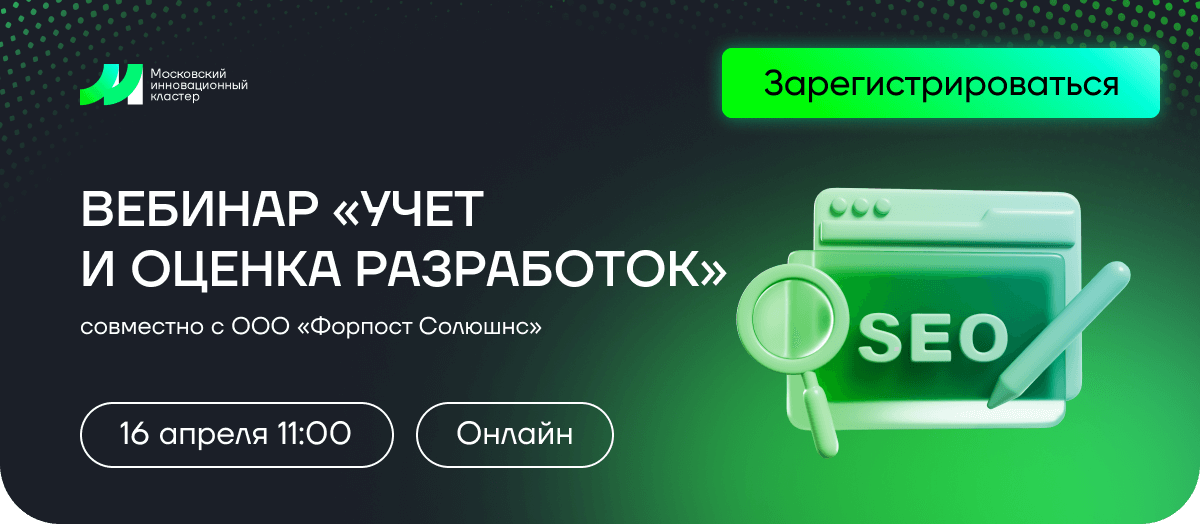
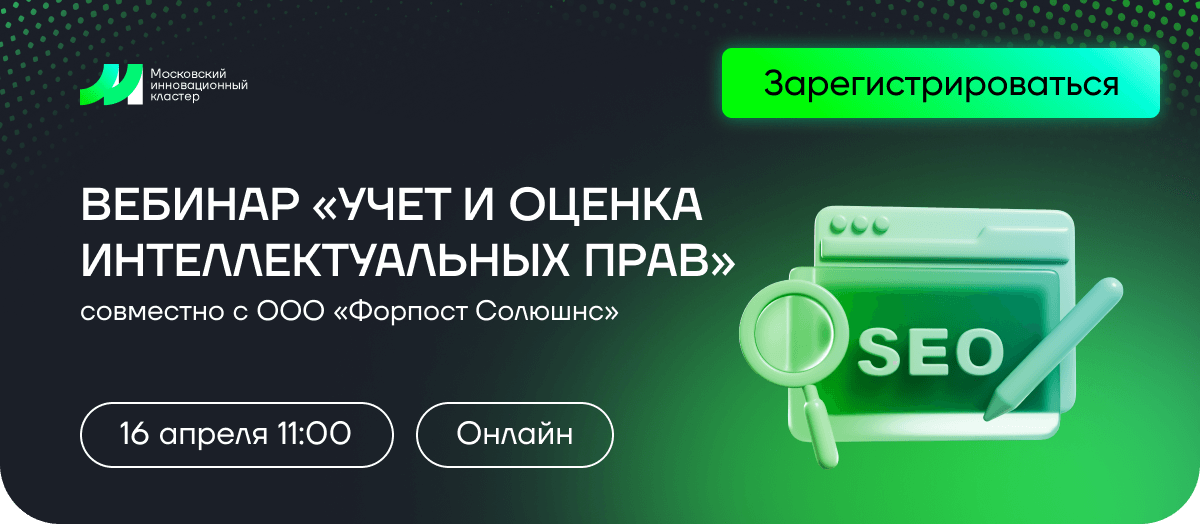
change mik-216

Changed region(s): [[0.0617, 0.3359, 0.9558, 0.916], [0.0617, 0.3359, 0.5858, 0.4275]]

diff --git a/mik-216/Вебинар «Учет и оценка разработок».html b/mik-216/Вебинар «Учет и оценка разработок».html
@@ -103,7 +103,7 @@
                                         <tr>
                                             <td style="width:600px;">
                                                 <a href="https://i.moscow/event/uchetipwebinar" target="_blank">
-                                                    <img alt="Вебинар «Учет и оценка разработок» совместно с ООО «Форпост Солюшнс». 16 апреля 11:00. Онлайн. Нажмите здесь, чтобы зарегистрироваться." height="auto" src="https://cp.unisender.com/ru/user_file?resource=images&user_id=5608985&name=mik-216-hero.png" style="border:0;display:block;outline:none;text-decoration:none;height:auto;width:100%;font-size:13px;" width="600" />
+                                                    <img alt="Вебинар «Учет и оценка интеллектуальных прав» совместно с ООО «Форпост Солюшнс». 16 апреля 11:00. Онлайн. Нажмите здесь, чтобы зарегистрироваться." height="auto" src="https://cp.unisender.com/ru/user_file?resource=images&user_id=5608985&name=mik-216-hero.png" style="border:0;display:block;outline:none;text-decoration:none;height:auto;width:100%;font-size:13px;" width="600" />
                                                 </a>
                                             </td>
                                         </tr>
@@ -583,25 +583,69 @@
             </tbody>
         </table>
     </div>
-    <!--[if mso | IE]></td></tr></table><table align="center" border="0" cellpadding="0" cellspacing="0" class="" style="width:600px;" width="600" ><tr><td style="line-height:0px;font-size:0px;mso-line-height-rule:exactly;"><v:rect style="width:600px;" xmlns:v="urn:schemas-microsoft-com:vml" fill="true" stroke="false"><v:fill origin="0.5, 0" position="0.5, 0" src="https://cp.unisender.com/ru/user_file?resource=images&user_id=5608985&name=mik-117-bg-2.png" type="tile" size="1,1" aspect="atleast" /><v:textbox style="mso-fit-shape-to-text:true" inset="0,0,0,0"><![endif]-->
-    <div style="background:url(https://cp.unisender.com/ru/user_file?resource=images&user_id=5608985&name=mik-117-bg-2.png) center top / cover repeat;background-position:center top;background-repeat:repeat;background-size:cover;margin:0px auto;max-width:600px;margin-top: 15px;">
+    <!--[if mso | IE]></td></tr></table><table align="center" border="0" cellpadding="0" cellspacing="0" class="" style="width:600px;" width="600" ><tr><td style="line-height:0px;font-size:0px;mso-line-height-rule:exactly;"><![endif]-->
+    <div style="margin:0px auto;max-width:600px;">
+        <table align="center" border="0" cellpadding="0" cellspacing="0" role="presentation" style="width:100%;">
+            <tbody>
+            <tr>
+                <td style="direction:ltr;font-size:0px;text-align: center;">
+                    <!--[if mso | IE]><table role="presentation" border="0" cellpadding="0" cellspacing="0"><tr><td class="" style="vertical-align:top;width:600px;" ><![endif]-->
+                    <div class="mj-column-per-100 mj-outlook-group-fix" style="font-size:0px;text-align:left;direction:ltr;display:inline-block;vertical-align:top;width:100%;">
+                        <table border="0" cellpadding="0" cellspacing="0" role="presentation" style="vertical-align:top;" width="100%">
+                            <tbody>
+                            <tr>
+                                <td align="center" vertical-align="middle" style="font-size:0px;word-break:break-word;padding:32px 20px 46px;">
+                                    <table border="0" cellpadding="0" cellspacing="0" role="presentation" style="border-collapse:separate;max-width:292px;width:100%;line-height:100%;">
+                                        <tr>
+                                            <td align="center" bgcolor="#00FB07" role="presentation" style="border:none;border-radius:10px;cursor:auto;height:50px;mso-padding-alt:10px 25px;background: linear-gradient(80deg, #00FB07 34.41%, #00FED9 85.02%, #9FFFF6 103.22%);" valign="middle">
+                                                <a href="https://i.moscow/event/uchetipwebinar" style="display:inline-block;color:#000000;font-family:Gilroy, Helvetica, Arial, sans-serif;font-size:25px;font-weight:500;line-height:30px;margin:0;text-decoration:none;text-transform:none;mso-padding-alt:0px;border-radius:5px;" target="_blank">Подать заявку</a>
+                                            </td>
+                                        </tr>
+                                    </table>
+                                </td>
+                            </tr>
+                            </tbody>
+                        </table>
+                    </div>
+                    <!--[if mso | IE]></td></tr></table><![endif]-->
+                </td>
+            </tr>
+            </tbody>
+        </table>
+    </div>
+    <!--[if mso | IE]></td></tr></table><table align="center" border="0" cellpadding="0" cellspacing="0" class="" style="width:600px;" width="600" ><tr><td style="line-height:0px;font-size:0px;mso-line-height-rule:exactly;"><v:rect style="width:600px;" xmlns:v="urn:schemas-microsoft-com:vml" fill="true" stroke="false"><v:fill origin="0.5, 0" position="0.5, 0" src="https://cp.unisender.com/ru/user_file?resource=images&user_id=5608985&name=mik-210-bg-2.png" type="tile" size="1,1" aspect="atleast" /><v:textbox style="mso-fit-shape-to-text:true" inset="0,0,0,0"><![endif]-->
+    <div style="background:url(https://cp.unisender.com/ru/user_file?resource=images&user_id=5608985&name=mik-210-bg-2.png) center top / cover repeat;background-position:center top;background-repeat:repeat;background-size:cover;margin:0px auto;max-width:600px;background-color:#1B1F28;">
         <div style="line-height:0;font-size:0;">
-            <table align="center" background="https://cp.unisender.com/ru/user_file?resource=images&user_id=5608985&name=mik-117-bg-2.png" border="0" cellpadding="0" cellspacing="0" role="presentation" style="background:url(https://cp.unisender.com/ru/user_file?resource=images&user_id=5608985&name=mik-117-bg-2.png) center top / cover repeat;background-position:center top;background-repeat:repeat;background-size:cover;width:100%;">
+            <table align="center" background="https://cp.unisender.com/ru/user_file?resource=images&user_id=5608985&name=mik-210-bg-2.png" border="0" cellpadding="0" cellspacing="0" role="presentation" style="background:url(https://cp.unisender.com/ru/user_file?resource=images&user_id=5608985&name=mik-210-bg-2.png) center top / cover repeat;background-position:center top;background-repeat:repeat;background-size:cover;width:100%;background-color:#1B1F28;">
                 <tbody>
                 <tr>
-                    <td style="direction:ltr;font-size:0px;padding:0;text-align:center;">
-                        <!--[if mso | IE]><table role="presentation" border="0" cellpadding="0" cellspacing="0"><tr><td class="" style="vertical-align:top;width:600px;" ><![endif]-->
-                        <div class="mj-column-per-100 mj-outlook-group-fix" style="font-size:0px;text-align:left;direction:ltr;display:inline-block;vertical-align:top;width:100%;">
+                    <td style="direction:ltr;font-size:0px;padding:0px 20px 0 24px;">
+                        <!--[if mso | IE]><table role="presentation" border="0" cellpadding="0" cellspacing="0"><tr><td class="" style="vertical-align:top;max-width:350px;width:100%;" ><![endif]-->
+                        <div class="mj-outlook-group-fix" style="font-size:0px;text-align:left;direction:ltr;display:inline-block;vertical-align:top;max-width:350px;width:100%;">
                             <table border="0" cellpadding="0" cellspacing="0" role="presentation" style="vertical-align:top;" width="100%">
                                 <tbody>
                                 <tr>
-                                    <td align="center" vertical-align="middle" style="font-size:0px;word-break:break-word;padding:55px 0;">
-                                        <table border="0" cellpadding="0" cellspacing="0" role="presentation" style="border-collapse:separate;max-width:292px;width:100%;line-height:100%;">
+                                    <td align="left" style="font-size:0px;word-break:break-word;padding-top:48px;">
+                                        <div style="font-family: Gilroy, Helvetica, Arial, sans-serif;font-size:20px;font-weight:500;line-height:120%;text-align:left;color:#FFFFFF;max-width:337px;width:100%;">Подписывайтесь на&nbsp;Телеграм-канал Центра интеллектуальной собственности Фонда МИК&nbsp;<a href="https://t.me/+fcTG6uuM70xhODcy" target="_blank" style="color:#00FB07;font-weight: 700">по&nbsp;ссылке</a> и&nbsp;получайте ценные знания каждый день!</div>
+                                    </td>
+                                </tr>
+                                </tbody>
+                            </table>
+                        </div>
+                        <!--[if mso | IE]></td><td class="" style="vertical-align:top;" ><![endif]-->
+                        <div class="mj-outlook-group-fix" style="font-size:0px;text-align:left;direction:ltr;display:inline-block;vertical-align:top;">
+                            <table border="0" cellpadding="0" cellspacing="0" role="presentation" style="vertical-align:top;" width="100%">
+                                <tbody>
+                                <tr>
+                                    <td style="font-size:0px;word-break:break-word;">
+                                        <table border="0" cellpadding="0" cellspacing="0" role="presentation" style="border-collapse:collapse;border-spacing:0px;">
+                                            <tbody>
                                             <tr>
-                                                <td align="center" bgcolor="linear-gradient(80deg, #00FB07 34.41%, #00FED9 85.02%, #9FFFF6 103.22%)" role="presentation" style="border:none;border-radius:10px;cursor:auto;height:50px;mso-padding-alt:10px 25px;background:linear-gradient(80deg, #00FB07 34.41%, #00FED9 85.02%, #9FFFF6 103.22%);" valign="middle">
-                                                    <a href="https://i.moscow/event/uchetipwebinar" style="display:inline-block;color:#000000;font-family: Gilroy, Helvetica, Arial, sans-serif;font-size:25px;font-weight:500;line-height:30px;margin:0;text-decoration:none;text-transform:none;mso-padding-alt:0px;border-radius:5px;" target="_blank">Подать заявку</a>
+                                                <td style="width:206px;padding-top:0px;">
+                                                    <img alt="Декоративная картинка" height="auto" src="https://cp.unisender.com/ru/user_file?resource=images&user_id=5608985&name=mik-210-content-img-2.png" style="border:0;display:block;outline:none;text-decoration:none;height:auto;width:100%;font-size:13px;" width="206" />
                                                 </td>
                                             </tr>
+                                            </tbody>
                                         </table>
                                     </td>
                                 </tr>
